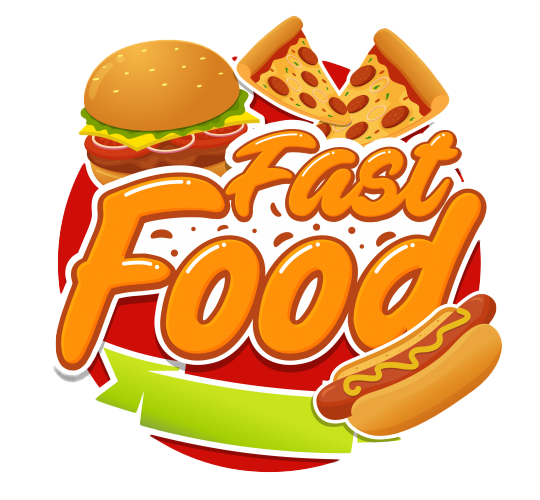
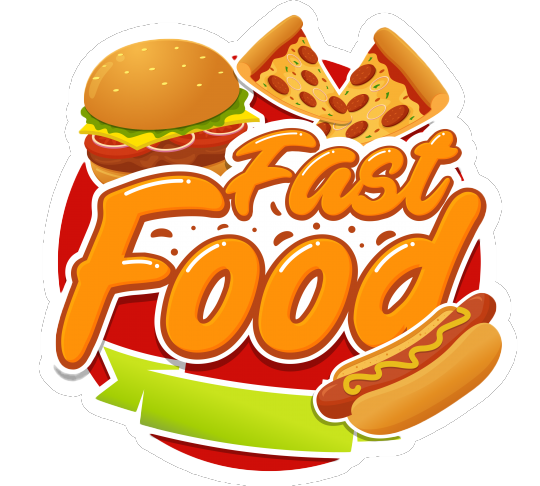
new file:   1star.png 	new file:   2stars.png 	new file:   3stars.png 	new file:   4stars.png 	new file:   5stars.png 	modified:   FastFood.png 	modified:   home.html 	modified:   signup.php

diff --git a/home.html b/home.html
@@ -3,6 +3,7 @@
 
 <head>
     <title>HU Break</title>
+    <meta charset="UTF-8">
     <style type="text/css">
         * {
             margin: 0;
@@ -30,6 +31,7 @@
             text-align: center;
             padding: 18px;
             text-decoration: none;
+            font-family: 'Courier New', Courier, monospace;
         }
 
         nav li a:hover {
@@ -56,7 +58,7 @@
         .intro {
             background-color: #DA1212;
             width: 100%;
-            height: 90%;
+            height: 100%;
         }
 
         .logo {
@@ -78,25 +80,21 @@
             margin-right: 4%;
         }
 
-        body {
-            background-color: #DA1212;
+        td {
+            background-color: #afaeaede;
+            border-radius: 15px;
+            color: black;
+            padding: 20px 40px 20px 0px;
+            font-family: 'Courier New', Courier, monospace;
         }
 
-        td {
-            background-color: rgb(0, 0, 0, 0.5);
-            border-radius: 15px 15px 15px 15px;
-            color: white;
-            padding-right: 10px;
-            padding-bottom: 70px;
+        td p {
+            font-family: 'Courier New', Courier, monospace;
         }
 
         .pic {
             border-radius: 15px 15px 15px 15px;
             margin-left: 15px;
-        }
-
-        h2 {
-            margin-top: 0px;
         }
 
         footer {
@@ -119,20 +117,22 @@
             <li><a href="#">مواقع المطاعم</a></li>
             <li><a href="#">الصفحة الرئيسية</a></li>
         </ul>
-        <img src="C:\Users\mshro\Downloads\logo-removebg-preview(1).png" class="logo" height="50px">
+        <img src="logo-removebg.png" class="logo" height="50px">
     </nav>
 
     <div class="intro">
         <img src="FastFood.png" class="logo2">
         <h1><em>It's not just food,<br>It's an Experience.</em></h1>
+        <br><br><br><br>
     </div>
 
-    <table style="margin-left:200px; margin-right:80px; margin-top:200px">
+    <table style="margin:100px 80px 100px 200px">
         <tr>
             <td style="text-align: right;">
                 <h2>مطاعم ظاظا</h2><br>
                 <p>أهم الأصناف : شاورما، سناكات، مشروبات باردة، مشروبات ساخنة</p><br>
                 <p>الموقع : بجانب مبنى مطاعم الجامعة</p>
+                <img src="3stars.png" width="25%" style="padding-top: 10px;">
             </td>
             <th><img src="food.jpg" class="pic" height="200" width="300"></th>
         </tr>
@@ -142,6 +142,7 @@
                 <h2> مطاعم الفلج</h2><br>
                 <p>أهم الأصناف : شاورما، سناكات، مشروبات باردة، مشروبات ساخنة</p><br>
                 <p>الموقع : خلف عمادة شؤون الطلبة</p>
+                <img src="4stars.png" width="25%" style="padding-top: 10px;">
             </td>
             <th><img src="food.jpg" class="pic" height="200" width="300"></th>
         </tr>
@@ -151,6 +152,7 @@
                 <h2>مطاعم اسبريسو</h2><br>
                 <p>أهم الأصناف : شاورما، سناكات، مشروبات باردة، مشروبات ساخنة</p><br>
                 <p>الموقع : بجانب مبنى مطاعم الجامعة</p>
+                <img src="5stars.png" width="25%" style="padding-top: 10px;">
             </td>
             <th><img src="food.jpg" class="pic" height="200" width="300"></th>
         </tr>
@@ -160,6 +162,7 @@
                 <h2>مطاعم الطب</h2><br>
                 <p>أهم الأصناف : شاورما، سناكات، مشروبات باردة، مشروبات ساخنة</p><br>
                 <p>الموقع : في كلية الطب</p>
+                <img src="4stars.png" width="25%" style="padding-top: 10px;">
             </td>
             <th><img src="food.jpg" class="pic" height="200" width="300"></th>
         </tr>
@@ -169,6 +172,7 @@
                 <h2>مطاعم الشرقي</h2><br>
                 <p>أهم الأصناف : شاورما، سناكات، مشروبات باردة، مشروبات ساخنة</p><br>
                 <p>الموقع : في مجمع القاعات الشرقي</p>
+                <img src="2stars.png" width="25%" style="padding-top: 10px;">
             </td>
             <th><img src="food.jpg" class="pic" height="200" width="300"></th>
         </tr>
@@ -178,6 +182,7 @@
                 <h2>مطاعم الغربي</h2><br>
                 <p>أهم الأصناف : شاورما، سناكات، مشروبات باردة، مشروبات ساخنة</p><br>
                 <p>الموقع : في مجمع القاعات الغربي</p>
+                <img src="4stars.png" width="25%" style="padding-top: 10px;">
             </td>
             <th><img src="food.jpg" class="pic" height="200" width="300"></th>
         </tr>

diff --git a/signup.php b/signup.php
@@ -4,10 +4,13 @@ if (!$database = mysqli_connect("localhost", "root", "12345678"))
 if (!mysqli_select_db($database, "hubreak_db"))
     die("Sorry, could not find database.");
 extract($_POST);
-$query = "INSERT INTO user (name, email, pass) values ('$name' , '$email', '$pass')";
-if (!mysqli_query($database, $query))
-    header("Location:Signup_failed.html");
-else
-    header("Location:Account_created.html");
+if (preg_match('/^([0-9A-Za-z_$]{8})$/', $pass)) {
+    $query = "INSERT INTO user (name, email, pass) values ('$name' , '$email', '$pass')";
+    if (!mysqli_query($database, $query))
+        header("Location:Signup_failed.html");
+    else
+        header("Location:Account_created.html");
+} else
+    die("try another pass");
 mysqli_close($database);
 ?>
